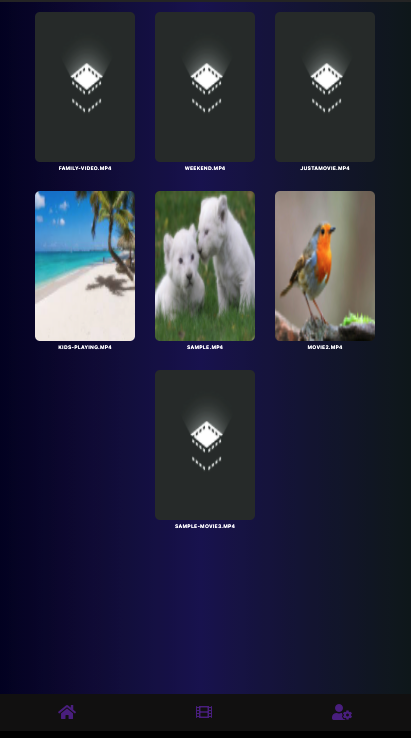
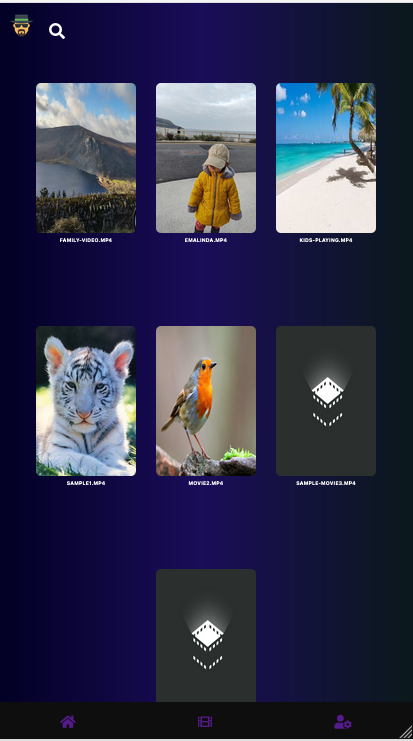
update docs

diff --git a/README.md b/README.md
@@ -56,6 +56,9 @@ Mobile
     <a href="https://github.com/eliasjunior/home-video-docs/blob/main/images/list.png">
         <img src="images/list.png" alt="Logo" width="200px" height="350px">
     </a>
+    <a href="https://github.com/eliasjunior/home-video-docs/blob/main/images/list-search.png">
+        <img src="images/list-search.png" alt="Logo" width="200px" height="350px">
+    </a>
 </p>
 <p align="center">
     <a href="https://github.com/eliasjunior/home-video-docs/blob/main/images/player.png">
@@ -68,8 +71,11 @@ Desktop
     <a href="https://github.com/eliasjunior/home-video-docs/blob/main/images/desktop.png">
         <img src="images/desktop.png" alt="Logo" width="600px" height="400px">
     </a>
-     <a href="https://github.com/eliasjunior/home-video-docs/blob/main/images/desktop-list.png">
+    <a href="https://github.com/eliasjunior/home-video-docs/blob/main/images/desktop-list.png">
         <img src="images/desktop-list.png" alt="Logo"  width="600px" height="400px">
+    </a>
+    <a href="https://github.com/eliasjunior/home-video-docs/blob/main/images/desktop-list-search.png">
+        <img src="images/desktop-list-search.png" alt="Logo"  width="600px" height="400px">
     </a>
 </p>
 
@@ -117,6 +123,12 @@ REACT_APP_SERVER_PROTOCOL=http
    ```
 4. More details of the configuration you can find in `src/config.js`   
 
+5. Folder structure must follow the structure bellow, images and subtitles at the same folder.
+
+    <a href="https://github.com/eliasjunior/home-video-docs/blob/main/images/folder.png">
+            <img src="images/folder.png" alt="Logo"  width="300px" height="200px">
+    </a>
+
 <li><a href="https://github.com/eliasjunior/home-video" target="_blank">React App</a></li>
 
 1. Clone the React App (Front-end)
@@ -130,27 +142,17 @@ REACT_APP_SERVER_PROTOCOL=http
 3. More details of the configuration you can find in `src/config.js`
 
 
-<!-- USAGE EXAMPLES -->
-## Usage
+<!-- Technical -->
+## Technical overview
 
-Use this space to show useful examples of how a project can be used. Additional screenshots, code examples and demos work well in this space. You may also link to more resources.
+<li><a href="https://github.com/eliasjunior/home-video" target="_blank">React App Choices</a></li>
 
-_For more examples, please refer to the [Documentation](https://example.com)_
+### Frameworks and Libs
 
-
-See the [open issues](https://github.com/othneildrew/Best-README-Template/issues) for a list of proposed features (and known issues).
-
-
-<!-- CONTRIBUTING -->
-## Contributing
-
-Contributions are what make the open source community such an amazing place to be learn, inspire, and create. Any contributions you make are **greatly appreciated**.
-
-1. Fork the Project
-2. Create your Feature Branch (`git checkout -b feature/AmazingFeature`)
-3. Commit your Changes (`git commit -m 'Add some AmazingFeature'`)
-4. Push to the Branch (`git push origin feature/AmazingFeature`)
-5. Open a Pull Request
+React
+1. Positive personal experience and I found that framework.
+2. It embraces reusability  and testability.
+3. It lets you to use your JavaScript know-how and relying strongly in the language instead of apis on the top of the language
 
 
 
